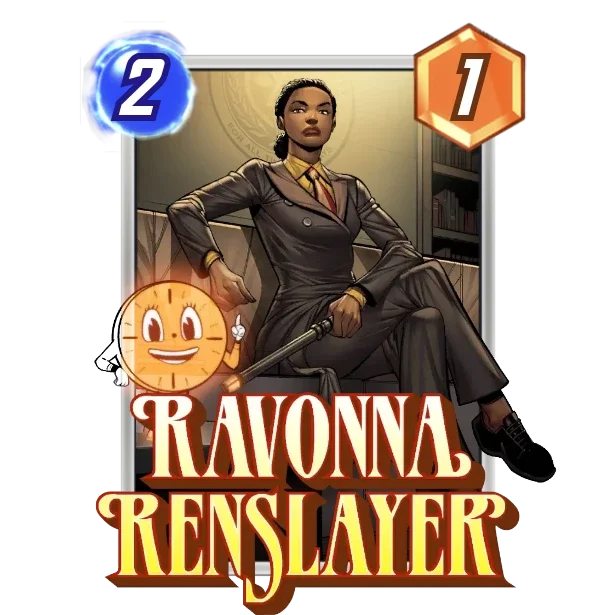
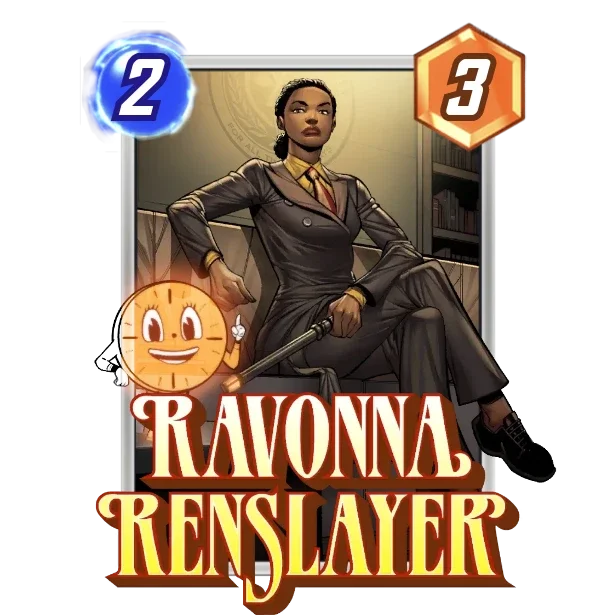
12/15 Snap Records Update
Adding filter button to hall of fame viewer. Adding hall of fame for December. Fixing Ravonna stats.

Changed region(s): [[0.7106, 0.0927, 0.8033, 0.2163]]

diff --git a/SnapRecords/src/main/java/records/controller/HallOfFameEntryCreatorPaneController.java b/SnapRecords/src/main/java/records/controller/HallOfFameEntryCreatorPaneController.java
@@ -1,8 +1,5 @@
 package records.controller;
 
-import snapMain.controller.BasePaneController;
-import snapMain.controller.MainDatabase;
-import snapMain.controller.grid.GridActionController;
 import javafx.collections.FXCollections;
 import javafx.fxml.FXML;
 import javafx.scene.Scene;
@@ -11,6 +8,11 @@ import javafx.scene.control.ChoiceBox;
 import javafx.scene.control.TextField;
 import javafx.scene.input.MouseButton;
 import javafx.scene.input.MouseEvent;
+import records.model.*;
+import records.view.HallOfFameManagerPane;
+import snapMain.controller.BasePaneController;
+import snapMain.controller.MainDatabase;
+import snapMain.controller.grid.GridActionController;
 import snapMain.model.constants.SnapMainConstants;
 import snapMain.model.database.TargetDatabase;
 import snapMain.model.helper.DeckCodeConverter;
@@ -22,17 +24,13 @@ import snapMain.view.ViewSize;
 import snapMain.view.manager.CardManager;
 import snapMain.view.node.GridDisplayNode;
 import snapMain.view.node.control.ControlNode;
-import snapMain.view.pane.editor.CardEditorPane;
-import records.model.*;
-import records.view.HallOfFameManagerPane;
 import snapMain.view.thing.CardView;
 
-import java.util.ArrayList;
 import java.util.Calendar;
 import java.util.List;
 
 
-public class HallOfFameEntryCreatorPaneController extends BasePaneController implements GridActionController<Card> {
+public class HallOfFameEntryCreatorPaneController extends BasePaneController<MainDatabase> implements GridActionController<Card> {
 
     @FXML
     CardManager cardManager;
@@ -49,12 +47,15 @@ public class HallOfFameEntryCreatorPaneController extends BasePaneController imp
     ChoiceBox<SnapMonth> monthBox;
     @FXML
     ChoiceBox<Integer> yearBox;
+    @FXML
+    ChoiceBox<HallOfFameCategory> hallOfFameFilters;
 
     @FXML
     Button saveButton;
     List<HallOfFameEntry> otherEntries;
     RecordSaver saver = new RecordSaver();
     HallOfFameEntry hallOfFameEntry;
+
     @Override
     public Scene getCurrentScene() {
         return cardManager.getScene();
@@ -71,13 +72,41 @@ public class HallOfFameEntryCreatorPaneController extends BasePaneController imp
         deckController.initialize(mainDatabase, captainDisplay, deckDisplay, entry, otherEntries);
         deckDisplay.initialize(entry.getCards(), TargetType.CARD, deckController, ViewSize.SMALL, true);
         cardManager.initialize(cards, TargetType.CARD, this, ViewSize.MEDIUM, true);
+        hallOfFameFilters.getItems().addAll(HallOfFameCategory.values());
         initializeSearchBar(cards);
         initializeDateChoice();
+        initializeFilterButton(cards);
+    }
+
+    private void initializeFilterButton(CardList allCards) {
+        hallOfFameFilters.setValue(HallOfFameCategory.ALL);
+        hallOfFameFilters.setOnAction(event ->
+        {
+            CardList filteredCards = new CardList();
+            HallOfFameCategory category = hallOfFameFilters.getValue();
+            for (Card c : allCards) {
+                switch (category) {
+                    case HALL_OF_FAME: {
+                        if (isGolden(c))
+                            filteredCards.add(c);
+                        break;
+                    }
+                    case NOT_HALL_OF_FAME: {
+                        if (!isGolden(c))
+                            filteredCards.add(c);
+                        break;
+                    }
+                    default:
+                        filteredCards.add(c);
+                }
+            }
+            cardManager.initialize(filteredCards, TargetType.CARD, this, ViewSize.MEDIUM, true);
+        });
     }
 
     private void initializeDateChoice() {
         monthBox.setItems(FXCollections.observableArrayList(SnapMonth.values()));
-        for(int i = SnapMainConstants.STARTING_YEAR; i <= Calendar.getInstance().get(Calendar.YEAR); i++)
+        for (int i = SnapMainConstants.STARTING_YEAR; i <= Calendar.getInstance().get(Calendar.YEAR); i++)
             yearBox.getItems().add(i);
         monthBox.setValue(hallOfFameEntry.getMonth());
         yearBox.setValue(hallOfFameEntry.getYear());
@@ -85,12 +114,11 @@ public class HallOfFameEntryCreatorPaneController extends BasePaneController imp
 
     private void initializeSearchBar(CardList allCards) {
         searchBar.textProperty().addListener((obs, oldValue, newValue) -> {
-            CardList cards = new CardList(new ArrayList<>());
-            for(Card c: allCards)
-            {
+            CardList cards = new CardList();
+            for (Card c : allCards) {
                 String name = c.getName().toLowerCase();
                 String searchString = searchBar.textProperty().get().toLowerCase();
-                if(name.contains(searchString))
+                if (name.contains(searchString))
                     cards.add(c);
             }
             cardManager.initialize(cards, TargetType.CARD, this, ViewSize.MEDIUM, true);
@@ -111,14 +139,13 @@ public class HallOfFameEntryCreatorPaneController extends BasePaneController imp
     public ControlNode<Card> createEmptyNode(ViewSize v) {
         ControlNode<Card> cardNode = new ControlNode<>();
         cardNode.initialize(mainDatabase, new Card(), mainDatabase.grabBlankImage(TargetType.CARD),
-                v,false);
+                v, false);
         return cardNode;
     }
 
     private boolean isGolden(Card c) {
-        for(HallOfFameEntry entry: otherEntries)
-        {
-            if(entry.contains(c))
+        for (HallOfFameEntry entry : otherEntries) {
+            if (entry.contains(c))
                 return true;
         }
         return hallOfFameEntry.contains(c);
@@ -131,20 +158,19 @@ public class HallOfFameEntryCreatorPaneController extends BasePaneController imp
     }
 
     @FXML
-    public void goBack()
-    {
+    public void goBack() {
         HallOfFameManagerPane managerPane = new HallOfFameManagerPane();
         managerPane.initialize(mainDatabase);
         changeScene(managerPane);
     }
+
     @FXML
-    public void saveEntry()
-    {
+    public void saveEntry() {
         HallOfFameEntry entry = deckController.getActiveEntry();
         entry.setName(nameBar.getText());
         entry.setMonth(monthBox.getValue());
         entry.setYear(yearBox.getValue());
-        if(entry.isValid()) {
+        if (entry.isValid()) {
             TargetDatabase<HallOfFameEntry> hallOfFameEntries = new TargetDatabase<>();
             hallOfFameEntries.addAll(otherEntries);
             hallOfFameEntries.addNewEntry(entry);
@@ -154,12 +180,10 @@ public class HallOfFameEntryCreatorPaneController extends BasePaneController imp
     }
 
     @FXML
-    public void convertDeckCodeToClipboard()
-    {
+    public void convertDeckCodeToClipboard() {
         DeckCodeConverter codeConverter = new DeckCodeConverter();
         codeConverter.encodeDeckToClipboard(nameBar.getText(), hallOfFameEntry.getCards());
     }
-
 
 
     @Override
@@ -178,7 +202,8 @@ public class HallOfFameEntryCreatorPaneController extends BasePaneController imp
         controlNode.addEventFilter(MouseEvent.MOUSE_PRESSED, e -> {
             if (e.getButton() == MouseButton.PRIMARY) {
                 deckController.toggleEntry(card);
-            e.consume();
-        }});
+                e.consume();
+            }
+        });
     }
 }

diff --git a/SnapRecords/src/main/java/records/model/HallOfFameCategory.java b/SnapRecords/src/main/java/records/model/HallOfFameCategory.java
@@ -1,0 +1,5 @@
+package records.model;
+
+public enum HallOfFameCategory {
+    HALL_OF_FAME, NOT_HALL_OF_FAME, ALL;
+}
